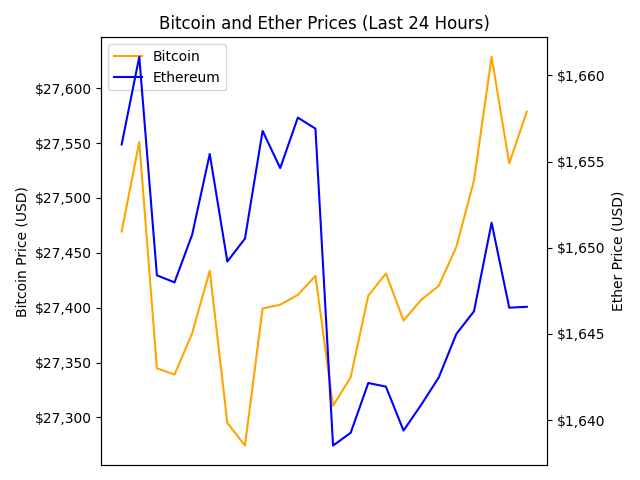
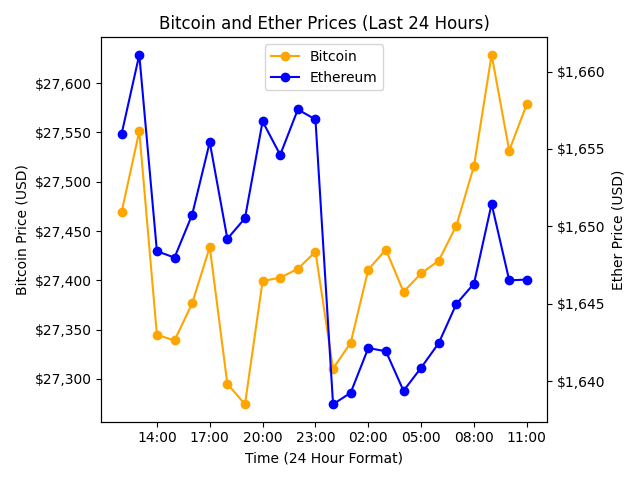
Adding new scripts

diff --git a/RaspiBlitz_Display.py b/RaspiBlitz_Display.py
@@ -3,6 +3,7 @@ import matplotlib.pyplot as plt
 import matplotlib.ticker as mticker
 import matplotlib.ticker as ticker
 import datetime
+import matplotlib.dates as mdates  # Import the mdates module
 
 # Define the Coinbase Pro API endpoints
 base_url = 'https://api.pro.coinbase.com'
@@ -46,9 +47,13 @@ timestamps_ethereum = [datetime.datetime.utcfromtimestamp(ts) for ts in timestam
 # Create a new figure and axis
 fig, ax1 = plt.subplots()
 
-# Plot Bitcoin prices on the left axis in orange
-ax1.plot(timestamps_bitcoin, bitcoin_prices, label='Bitcoin', color='orange')
-# ax1.set_xlabel('Time (24 Hour Format)')
+# Convert timestamps to matplotlib date format using mdates.date2num
+timestamps_bitcoin_matplotlib = mdates.date2num(timestamps_bitcoin)
+timestamps_ethereum_matplotlib = mdates.date2num(timestamps_ethereum)
+
+# Plot Bitcoin prices as a line chart on the left axis in orange
+ax1.plot_date(timestamps_bitcoin_matplotlib, bitcoin_prices, '-o', label='Bitcoin', color='orange')
+ax1.set_xlabel('Time (24 Hour Format)')
 ax1.set_ylabel('Bitcoin Price (USD)', color='black')
 ax1.tick_params(axis='y', labelcolor='black')
 ax1.yaxis.set_major_formatter(mticker.FormatStrFormatter('$%d'))
@@ -58,7 +63,7 @@ ax1.yaxis.set_major_formatter(ticker.FuncFormatter(lambda x, pos: '${:,.0f}'.for
 
 # Create a secondary axis for Ethereum prices in blue
 ax2 = ax1.twinx()
-ax2.plot(timestamps_ethereum, ethereum_prices, label='Ethereum', color='blue')
+ax2.plot_date(timestamps_ethereum_matplotlib, ethereum_prices, '-o', label='Ethereum', color='blue')
 ax2.set_ylabel('Ether Price (USD)', color='black')
 ax2.tick_params(axis='y', labelcolor='black')
 ax2.yaxis.set_major_formatter(mticker.FormatStrFormatter('$%d'))
@@ -66,28 +71,28 @@ ax2.yaxis.set_major_formatter(mticker.FormatStrFormatter('$%d'))
 # Use FuncFormatter to add commas to Y2 axis
 ax2.yaxis.set_major_formatter(ticker.FuncFormatter(lambda x, pos: '${:,.0f}'.format(x)))
 
-
 # Combine the legends from both axes
 lines1, labels1 = ax1.get_legend_handles_labels()
 lines2, labels2 = ax2.get_legend_handles_labels()
 lines = lines1 + lines2
 labels = labels1 + labels2
-ax1.legend(lines, labels, loc='best')
+ax1.legend(lines, labels, loc='upper center')
 
 # Set the title
 plt.title('Bitcoin and Ether Prices (Last 24 Hours)')
 
 # Create timestamps every 6 hours
-interval = 6  # hours
-start_time = timestamps_bitcoin[0]
-end_time = timestamps_bitcoin[-1]
-timestamps_x = [start_time + datetime.timedelta(hours=i) for i in range(0, int((end_time - start_time).total_seconds() / 3600) + 1, interval)]
+interval = 3  # hours
+timestamps_x = []
+for i in range(0, len(timestamps_bitcoin), interval):
+    timestamps_x.append(timestamps_bitcoin[i])
 
-# Set the major locator for the X-axis to match the timestamps
-ax1.set_xticks(timestamps_x)
+# Convert timestamps for X-axis to matplotlib date format using mdates.date2num
+timestamps_x_matplotlib = mdates.date2num(timestamps_x)
 
-# Format x-axis to display timestamps in "00:00" format
-ax1.xaxis.set_major_formatter(mticker.FuncFormatter(lambda x, pos: x.strftime('%H:%M')))
+# Set the major locator and formatter for the X-axis
+ax1.xaxis.set_major_locator(mticker.FixedLocator(timestamps_x_matplotlib))
+ax1.xaxis.set_major_formatter(mticker.FuncFormatter(lambda x, pos: mdates.num2date(x).strftime('%H:%M')))
 
 # Rotate x-axis labels for better visibility
 plt.xticks(rotation=45)

diff --git a/candlestickPrice.py b/candlestickPrice.py
@@ -1,0 +1,66 @@
+import requests
+import datetime
+import plotly.graph_objs as go
+import pandas as pd
+
+# Define the Coinbase Pro API endpoints
+base_url = 'https://api.pro.coinbase.com'
+bitcoin_product_id = 'BTC-USD'
+ethereum_product_id = 'ETH-USD'
+
+# Set the time interval for historical data (24 hours)
+end_time = datetime.datetime.now()
+start_time = end_time - datetime.timedelta(days=1)
+
+# Convert start and end times to ISO 8601 format
+start_iso = start_time.isoformat()
+end_iso = end_time.isoformat()
+
+# Define the URL for historical Bitcoin data
+bitcoin_url = f'{base_url}/products/{bitcoin_product_id}/candles'
+params = {
+    'start': start_iso,
+    'end': end_iso,
+    'granularity': 3600,  # 1-hour intervals
+}
+response_bitcoin = requests.get(bitcoin_url, params=params)
+data_bitcoin = response_bitcoin.json()
+
+# Define the URL for historical Ethereum data
+ethereum_url = f'{base_url}/products/{ethereum_product_id}/candles'
+response_ethereum = requests.get(ethereum_url, params=params)
+data_ethereum = response_ethereum.json()
+
+# Extract timestamps and closing prices
+timestamps_bitcoin = [entry[0] for entry in data_bitcoin]
+timestamps_ethereum = [entry[0] for entry in data_ethereum]
+bitcoin_prices = [entry[4] for entry in data_bitcoin]
+ethereum_prices = [entry[4] for entry in data_ethereum]
+
+# Convert timestamps to datetime objects
+timestamps_bitcoin = [datetime.datetime.utcfromtimestamp(ts) for ts in timestamps_bitcoin]
+timestamps_ethereum = [datetime.datetime.utcfromtimestamp(ts) for ts in timestamps_ethereum]
+
+# Combine timestamps and prices into a DataFrame
+bitcoin_data = pd.DataFrame({'timestamp': timestamps_bitcoin, 'open': bitcoin_prices, 'close': bitcoin_prices, 'high': bitcoin_prices, 'low': bitcoin_prices})
+bitcoin_data.set_index('timestamp', inplace=True)
+
+# Create a candlestick chart for Bitcoin prices
+fig = go.Figure(data=[go.Candlestick(x=bitcoin_data.index,
+                open=bitcoin_data['open'],
+                high=bitcoin_data['high'],
+                low=bitcoin_data['low'],
+                close=bitcoin_data['close'])])
+
+# Add Ethereum prices as a line plot
+fig.add_trace(go.Scatter(x=timestamps_ethereum, y=ethereum_prices, mode='lines', name='Ethereum', line=dict(color='blue')))
+
+# Customize the layout
+fig.update_layout(title='Bitcoin Candlestick Chart (Last 24 Hours)',
+                  yaxis_title='Price (USD)')
+
+# Save the plot as an image (e.g., PNG)
+fig.write_image('crypto_candlestick.png')
+
+# Optionally, you can display the plot in an interactive window
+# fig.show()

diff --git a/displayPriceChart.py b/displayPriceChart.py
@@ -1,0 +1,16 @@
+import schedule
+import time
+import webbrowser
+
+# Function to display the image in a web browser
+def display_image():
+    # Open the image generated by getPriceChart.py in a web browser
+    webbrowser.open('file://home/graydaniel9d9/RaspiBlitz_Display/crypto_prices.png', new=2)
+
+# Schedule the function to run every 15 minutes
+schedule.every(15).minutes.do(display_image)
+
+# Run the schedule loop
+while True:
+    schedule.run_pending()
+    time.sleep(1)  # Sleep for 1 second to avoid high CPU usage
